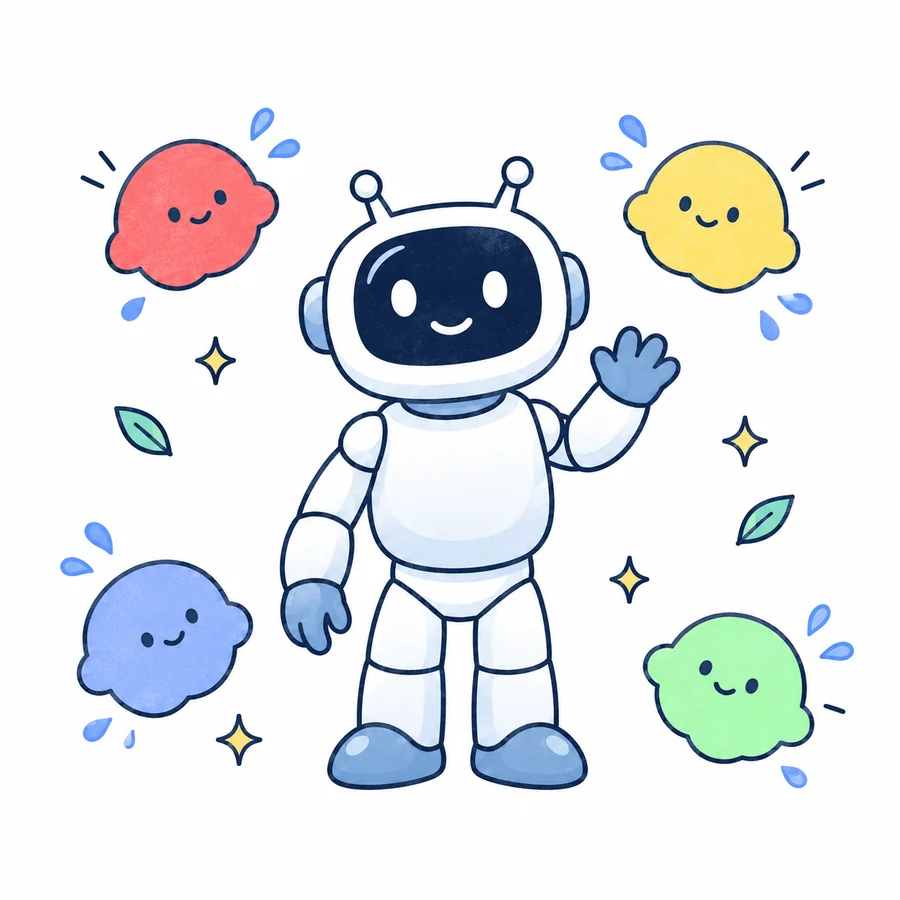
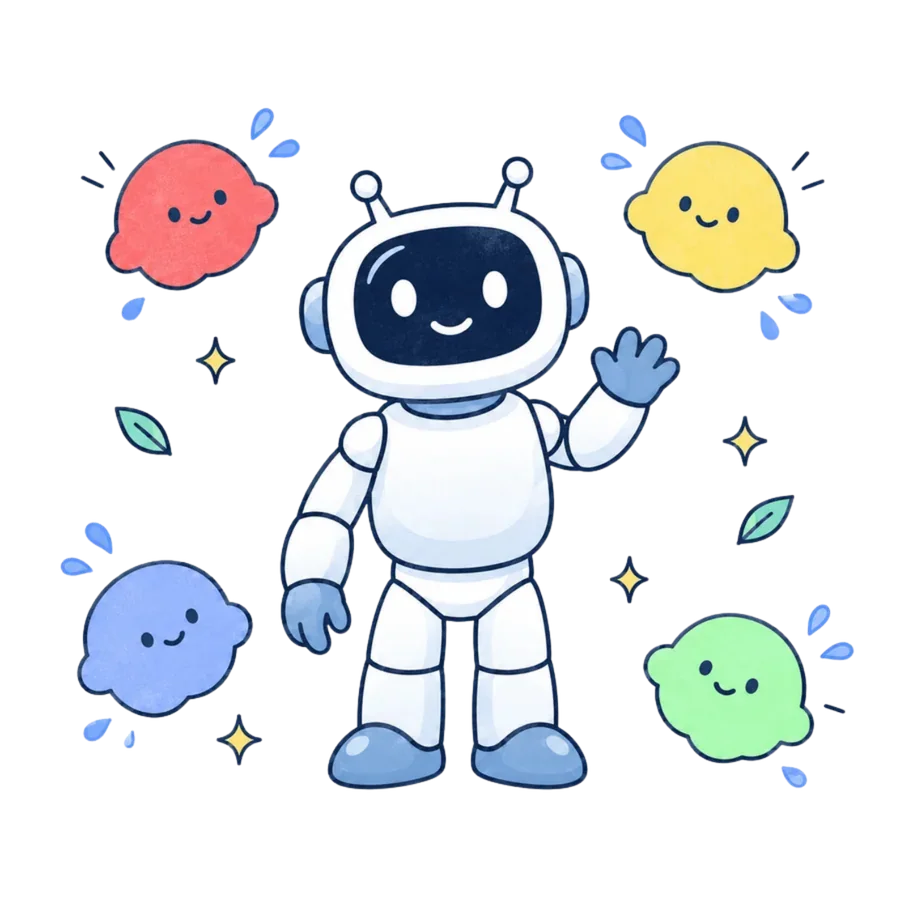
replace illustrations, align emotion labels, and remove image cards

diff --git a/resources/views/public/tentang.blade.php b/resources/views/public/tentang.blade.php
@@ -30,17 +30,19 @@
             </div>
 
             <div data-load="pop" class="relative mx-auto w-full max-w-md">
-                <div class="grid aspect-square place-items-center overflow-hidden rounded-xl border border-border bg-card p-6 shadow-card">
-                    <img src="{{ $heroFile }}" width="900" height="900" fetchpriority="high"
-                         alt="RelaxMate, robot pendamping, melambai ramah di antara karakter Stres, Cemas, Sedih, dan Lega."
-                         class="h-auto w-full max-w-72 object-contain">
-                </div>
-                {{-- Label emosi: hiasan, dipasang lewat kode agar teks tajam --}}
-                <div class="hidden sm:block" aria-hidden="true">
-                    <span data-float class="absolute top-5 left-5 inline-flex items-center gap-2 rounded-full bg-card px-3 py-1 text-xs font-medium text-text shadow-card"><span class="size-3 rounded-full bg-mood-red"></span>Stres</span>
-                    <span data-float class="absolute top-8 right-5 inline-flex items-center gap-2 rounded-full bg-card px-3 py-1 text-xs font-medium text-text shadow-card"><span class="size-3 rounded-full bg-mood-yellow"></span>Cemas</span>
-                    <span data-float class="absolute bottom-8 left-5 inline-flex items-center gap-2 rounded-full bg-card px-3 py-1 text-xs font-medium text-text shadow-card"><span class="size-3 rounded-full bg-mood-blue"></span>Sedih</span>
-                    <span data-float class="absolute right-5 bottom-5 inline-flex items-center gap-2 rounded-full bg-card px-3 py-1 text-xs font-medium text-text shadow-card"><span class="size-3 rounded-full bg-mood-green"></span>Lega</span>
+                <div>
+                    <div class="relative w-full">
+                        <img src="{{ $heroFile }}" width="900" height="900" fetchpriority="high"
+                             alt="RelaxMate, robot pendamping, melambai ramah di antara karakter Stres, Cemas, Sedih, dan Lega."
+                             class="h-auto w-full object-contain">
+                        {{-- Label emosi: hiasan, dipasang lewat kode tepat di bawah tiap karakter --}}
+                        <div class="hidden sm:block" aria-hidden="true">
+                            <span data-float class="absolute top-[33%] left-[21%] -translate-x-1/2 inline-flex items-center gap-2 rounded-full bg-card px-3 py-1 text-xs font-medium text-text shadow-card"><span class="size-3 rounded-full bg-mood-red"></span>Stres</span>
+                            <span data-float class="absolute top-[33%] left-[84%] -translate-x-1/2 inline-flex items-center gap-2 rounded-full bg-card px-3 py-1 text-xs font-medium text-text shadow-card"><span class="size-3 rounded-full bg-mood-yellow"></span>Cemas</span>
+                            <span data-float class="absolute top-[81%] left-[18%] -translate-x-1/2 inline-flex items-center gap-2 rounded-full bg-card px-3 py-1 text-xs font-medium text-text shadow-card"><span class="size-3 rounded-full bg-mood-blue"></span>Sedih</span>
+                            <span data-float class="absolute top-[86%] left-[81%] -translate-x-1/2 inline-flex items-center gap-2 rounded-full bg-card px-3 py-1 text-xs font-medium text-text shadow-card"><span class="size-3 rounded-full bg-mood-green"></span>Lega</span>
+                        </div>
+                    </div>
                 </div>
             </div>
         </div>

diff --git a/resources/views/public/asesmen-index.blade.php b/resources/views/public/asesmen-index.blade.php
@@ -32,15 +32,17 @@
             </div>
 
             <div data-load="pop" class="relative mx-auto w-full max-w-md">
-                <div class="overflow-hidden rounded-xl border border-border bg-neutral-soft shadow-card">
+                <div>
                     <img src="{{ $img }}/asesmen-hero.webp" width="1200" height="900" fetchpriority="high"
                          alt="RelaxMate, robot pendamping, memegang papan catatan dan pensil di antara karakter perasaan berwarna biru, kuning, merah, dan hijau."
                          class="h-auto w-full">
                 </div>
                 {{-- Label emosi: hiasan, dipasang lewat kode agar teks tajam --}}
                 <div class="hidden sm:block" aria-hidden="true">
-                    <span data-float class="absolute top-4 left-4 inline-flex items-center gap-2 rounded-full bg-card px-3 py-1 text-xs font-medium text-text shadow-card"><span class="size-3 rounded-full bg-mood-red"></span>Stres</span>
-                    <span data-float class="absolute right-4 bottom-4 inline-flex items-center gap-2 rounded-full bg-card px-3 py-1 text-xs font-medium text-text shadow-card"><span class="size-3 rounded-full bg-mood-green"></span>Lega</span>
+                    <span data-float class="absolute top-[41%] left-[19%] -translate-x-1/2 inline-flex items-center gap-2 rounded-full bg-card px-3 py-1 text-xs font-medium text-text shadow-card"><span class="size-3 rounded-full bg-mood-blue"></span>Sedih</span>
+                    <span data-float class="absolute top-[42%] left-[81%] -translate-x-1/2 inline-flex items-center gap-2 rounded-full bg-card px-3 py-1 text-xs font-medium text-text shadow-card"><span class="size-3 rounded-full bg-mood-yellow"></span>Cemas</span>
+                    <span data-float class="absolute top-[84%] left-[18%] -translate-x-1/2 inline-flex items-center gap-2 rounded-full bg-card px-3 py-1 text-xs font-medium text-text shadow-card"><span class="size-3 rounded-full bg-mood-red"></span>Stres</span>
+                    <span data-float class="absolute top-[86%] left-[82%] -translate-x-1/2 inline-flex items-center gap-2 rounded-full bg-card px-3 py-1 text-xs font-medium text-text shadow-card"><span class="size-3 rounded-full bg-mood-green"></span>Lega</span>
                 </div>
             </div>
         </div>

diff --git a/resources/views/components/emotion-illustration.blade.php b/resources/views/components/emotion-illustration.blade.php
@@ -1,0 +1,36 @@
+@props([
+    'src',
+    'alt',
+    'width' => 900,
+    'height' => 900,
+])
+
+@php
+    // Posisi pil mengikuti letak karakter pada ilustrasi empat perasaan (persen dari lebar dan tinggi gambar):
+    // Stres (merah) kiri atas, Cemas (kuning) kanan atas, Sedih (biru) kiri bawah, Lega (hijau) kanan bawah.
+    // Pil berada tepat di bawah karakternya. Bila ilustrasi diganti, cukup sesuaikan `pos` di sini.
+    $labels = [
+        ['name' => 'Stres', 'dot' => 'bg-mood-red', 'pos' => 'left-[21%] top-[34%]'],
+        ['name' => 'Cemas', 'dot' => 'bg-mood-yellow', 'pos' => 'left-[84%] top-[33%]'],
+        ['name' => 'Sedih', 'dot' => 'bg-mood-blue', 'pos' => 'left-[18%] top-[81%]'],
+        ['name' => 'Lega', 'dot' => 'bg-mood-green', 'pos' => 'left-[81%] top-[86%]'],
+    ];
+@endphp
+
+<div {{ $attributes->merge(['class' => 'grid place-items-center overflow-hidden rounded-xl border border-border bg-card p-6 shadow-card']) }}>
+    <div class="relative w-full max-w-sm">
+        <img src="{{ $src }}" width="{{ $width }}" height="{{ $height }}" fetchpriority="high"
+             alt="{{ $alt }}" class="h-auto w-full object-contain">
+
+        {{-- Label emosi: hiasan, dipasang lewat kode agar teks tajam; disembunyikan di bawah 640px --}}
+        <div class="hidden sm:block" aria-hidden="true">
+            @foreach ($labels as $label)
+                <span data-float class="absolute {{ $label['pos'] }}">
+                    <span class="inline-flex -translate-x-1/2 items-center gap-2 rounded-full bg-card px-3 py-1 text-xs font-medium whitespace-nowrap text-text shadow-card">
+                        <span class="size-3 rounded-full {{ $label['dot'] }}"></span>{{ $label['name'] }}
+                    </span>
+                </span>
+            @endforeach
+        </div>
+    </div>
+</div>

diff --git a/resources/views/public/beranda.blade.php b/resources/views/public/beranda.blade.php
@@ -94,7 +94,7 @@
             </div>
             <img src="{{ $img }}/kamar-kos.webp" width="1200" height="800" loading="lazy"
                  alt="RelaxMate menemani seorang mahasiswa mengerjakan tugas di kamar pada malam hari."
-                 data-reveal="right" class="h-auto w-full rounded-xl">
+                 data-reveal="right" class="h-auto w-full">
         </div>
     </section>
 
@@ -113,7 +113,7 @@
             </div>
             <img src="{{ $img }}/relaxmate-ngobrol.webp" width="1200" height="900" loading="lazy"
                  alt="RelaxMate duduk bersila dan mendengarkan cerita sebuah karakter mood berwarna kuning."
-                 data-reveal="pop" class="h-auto w-full rounded-xl">
+                 data-reveal="pop" class="h-auto w-full">
         </div>
     </section>
 

diff --git a/resources/views/public/konsultasi.blade.php b/resources/views/public/konsultasi.blade.php
@@ -33,7 +33,7 @@
             </div>
 
             <div data-load="pop" class="mx-auto w-full max-w-md">
-                <div class="overflow-hidden rounded-xl border border-border bg-neutral-soft shadow-card">
+                <div>
                     <img src="{{ $img }}/konsultasi-hero.webp" width="900" height="900" fetchpriority="high"
                          alt="RelaxMate, robot pendamping, duduk tenang di samping karakter perasaan biru yang lelah, dengan satu tangan bersandar lembut di dekatnya."
                          class="h-auto w-full">

diff --git a/resources/views/components/legal-page.blade.php b/resources/views/components/legal-page.blade.php
@@ -7,7 +7,7 @@
             <p data-load class="mt-5 max-w-prose text-lg text-text-secondary">{{ $intro }}</p>
         </div>
         <div data-load="pop" class="hidden w-64 shrink-0 md:block">
-            <div class="overflow-hidden rounded-xl border border-border bg-neutral-soft shadow-card">
+            <div>
                 <img src="{{ asset('images/legal/'.$image) }}" width="600" height="600" alt="{{ $imageAlt }}" class="h-auto w-full">
             </div>
         </div>
